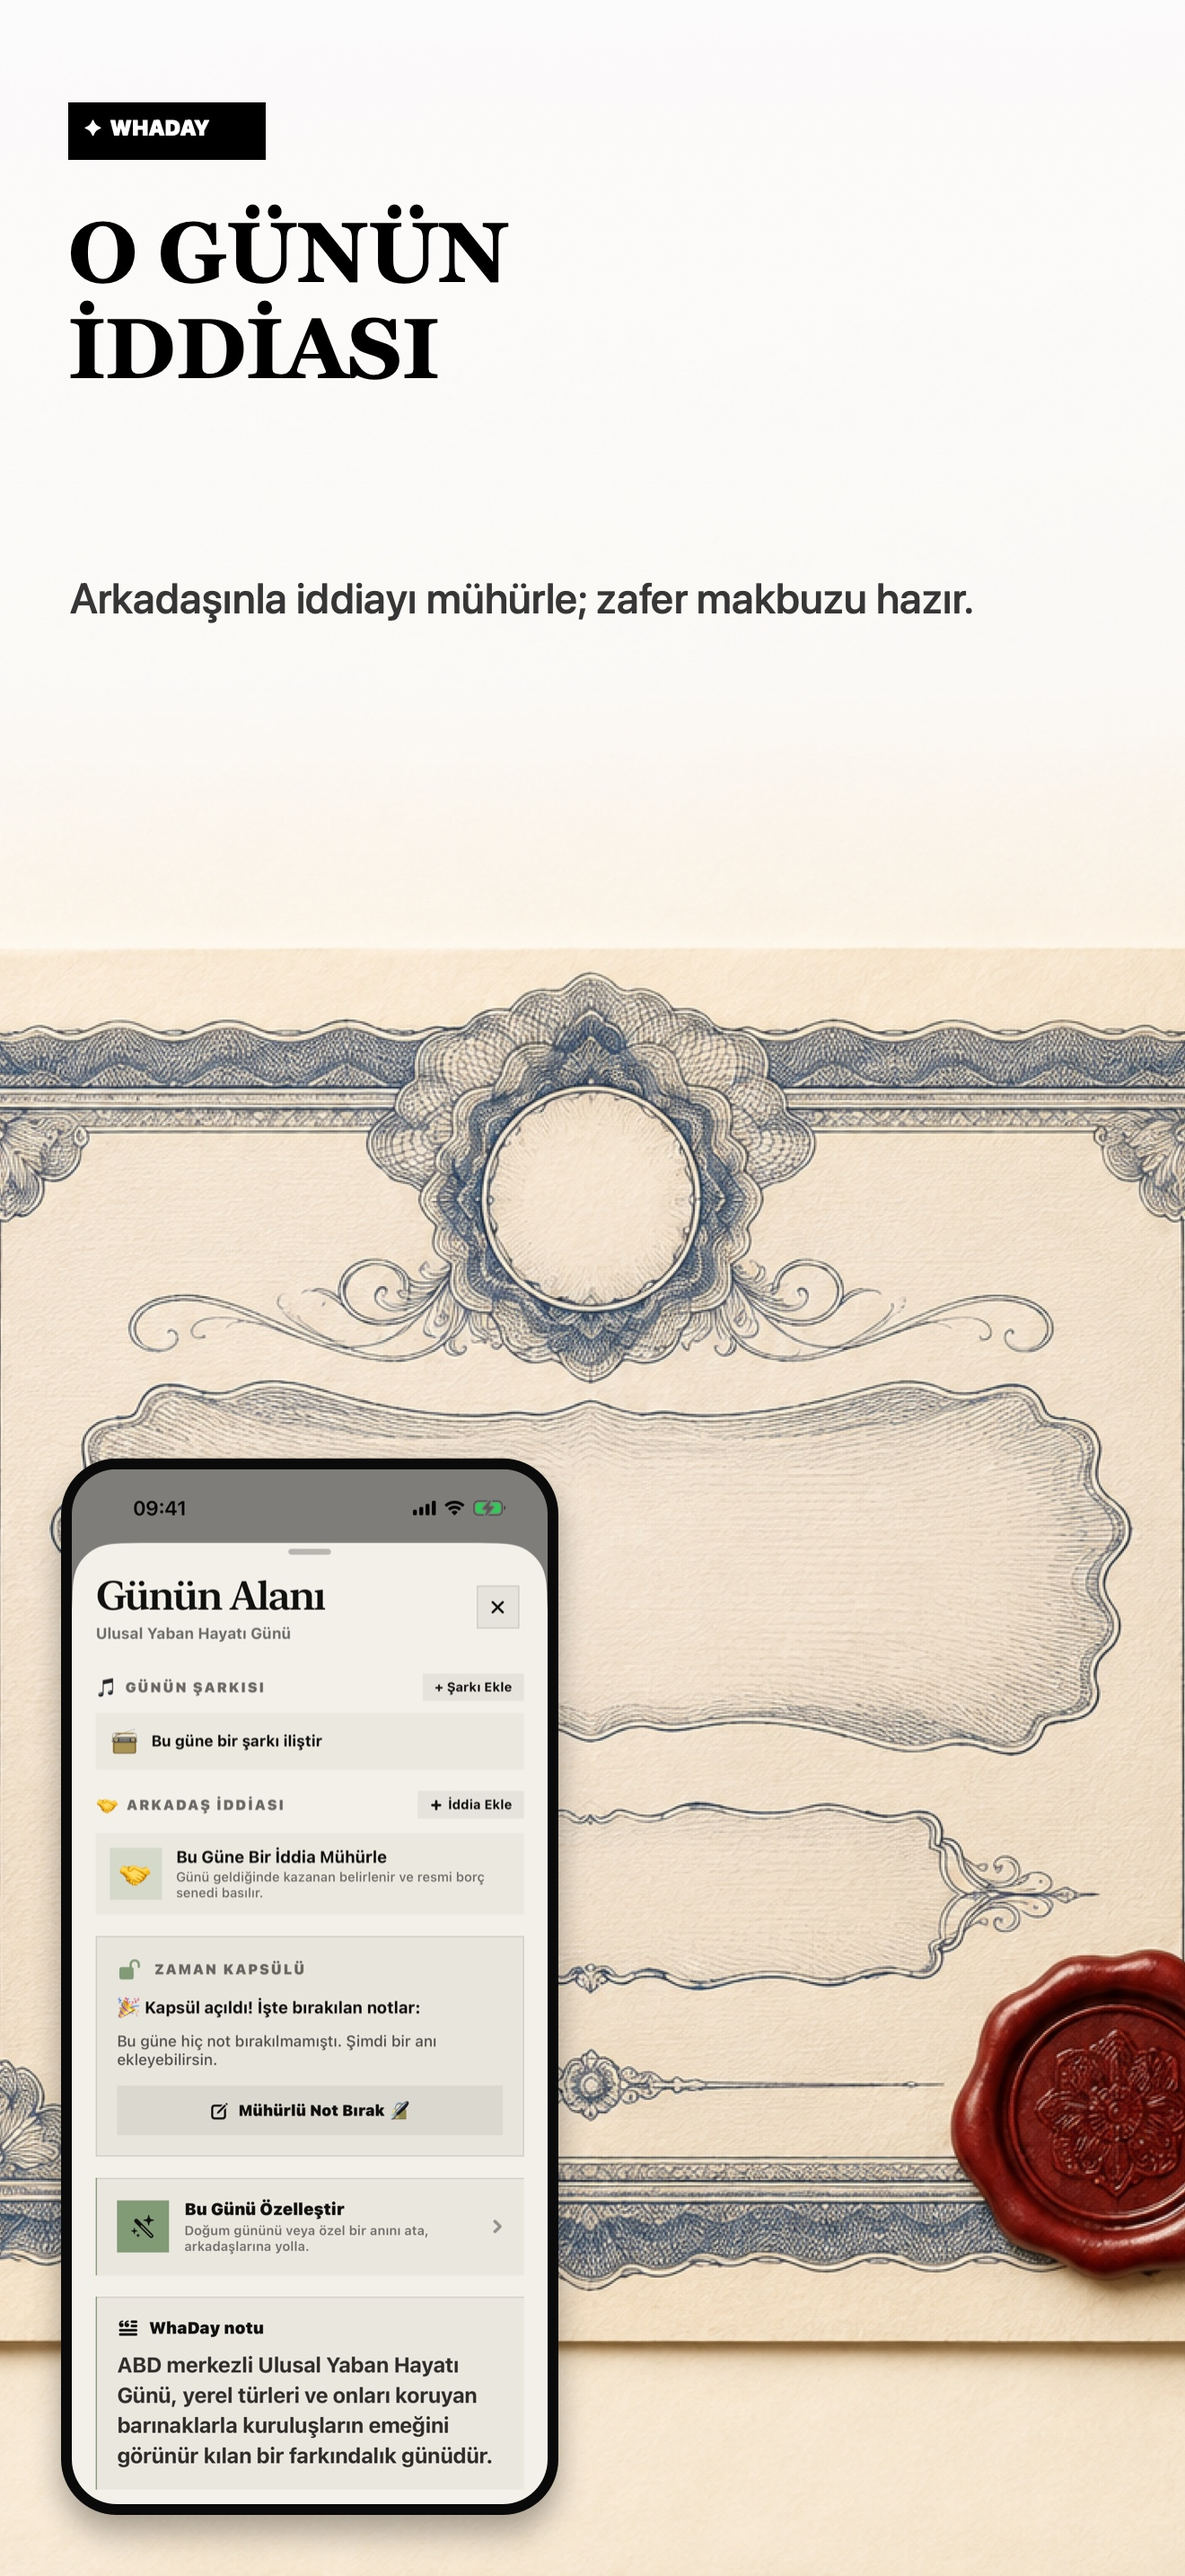
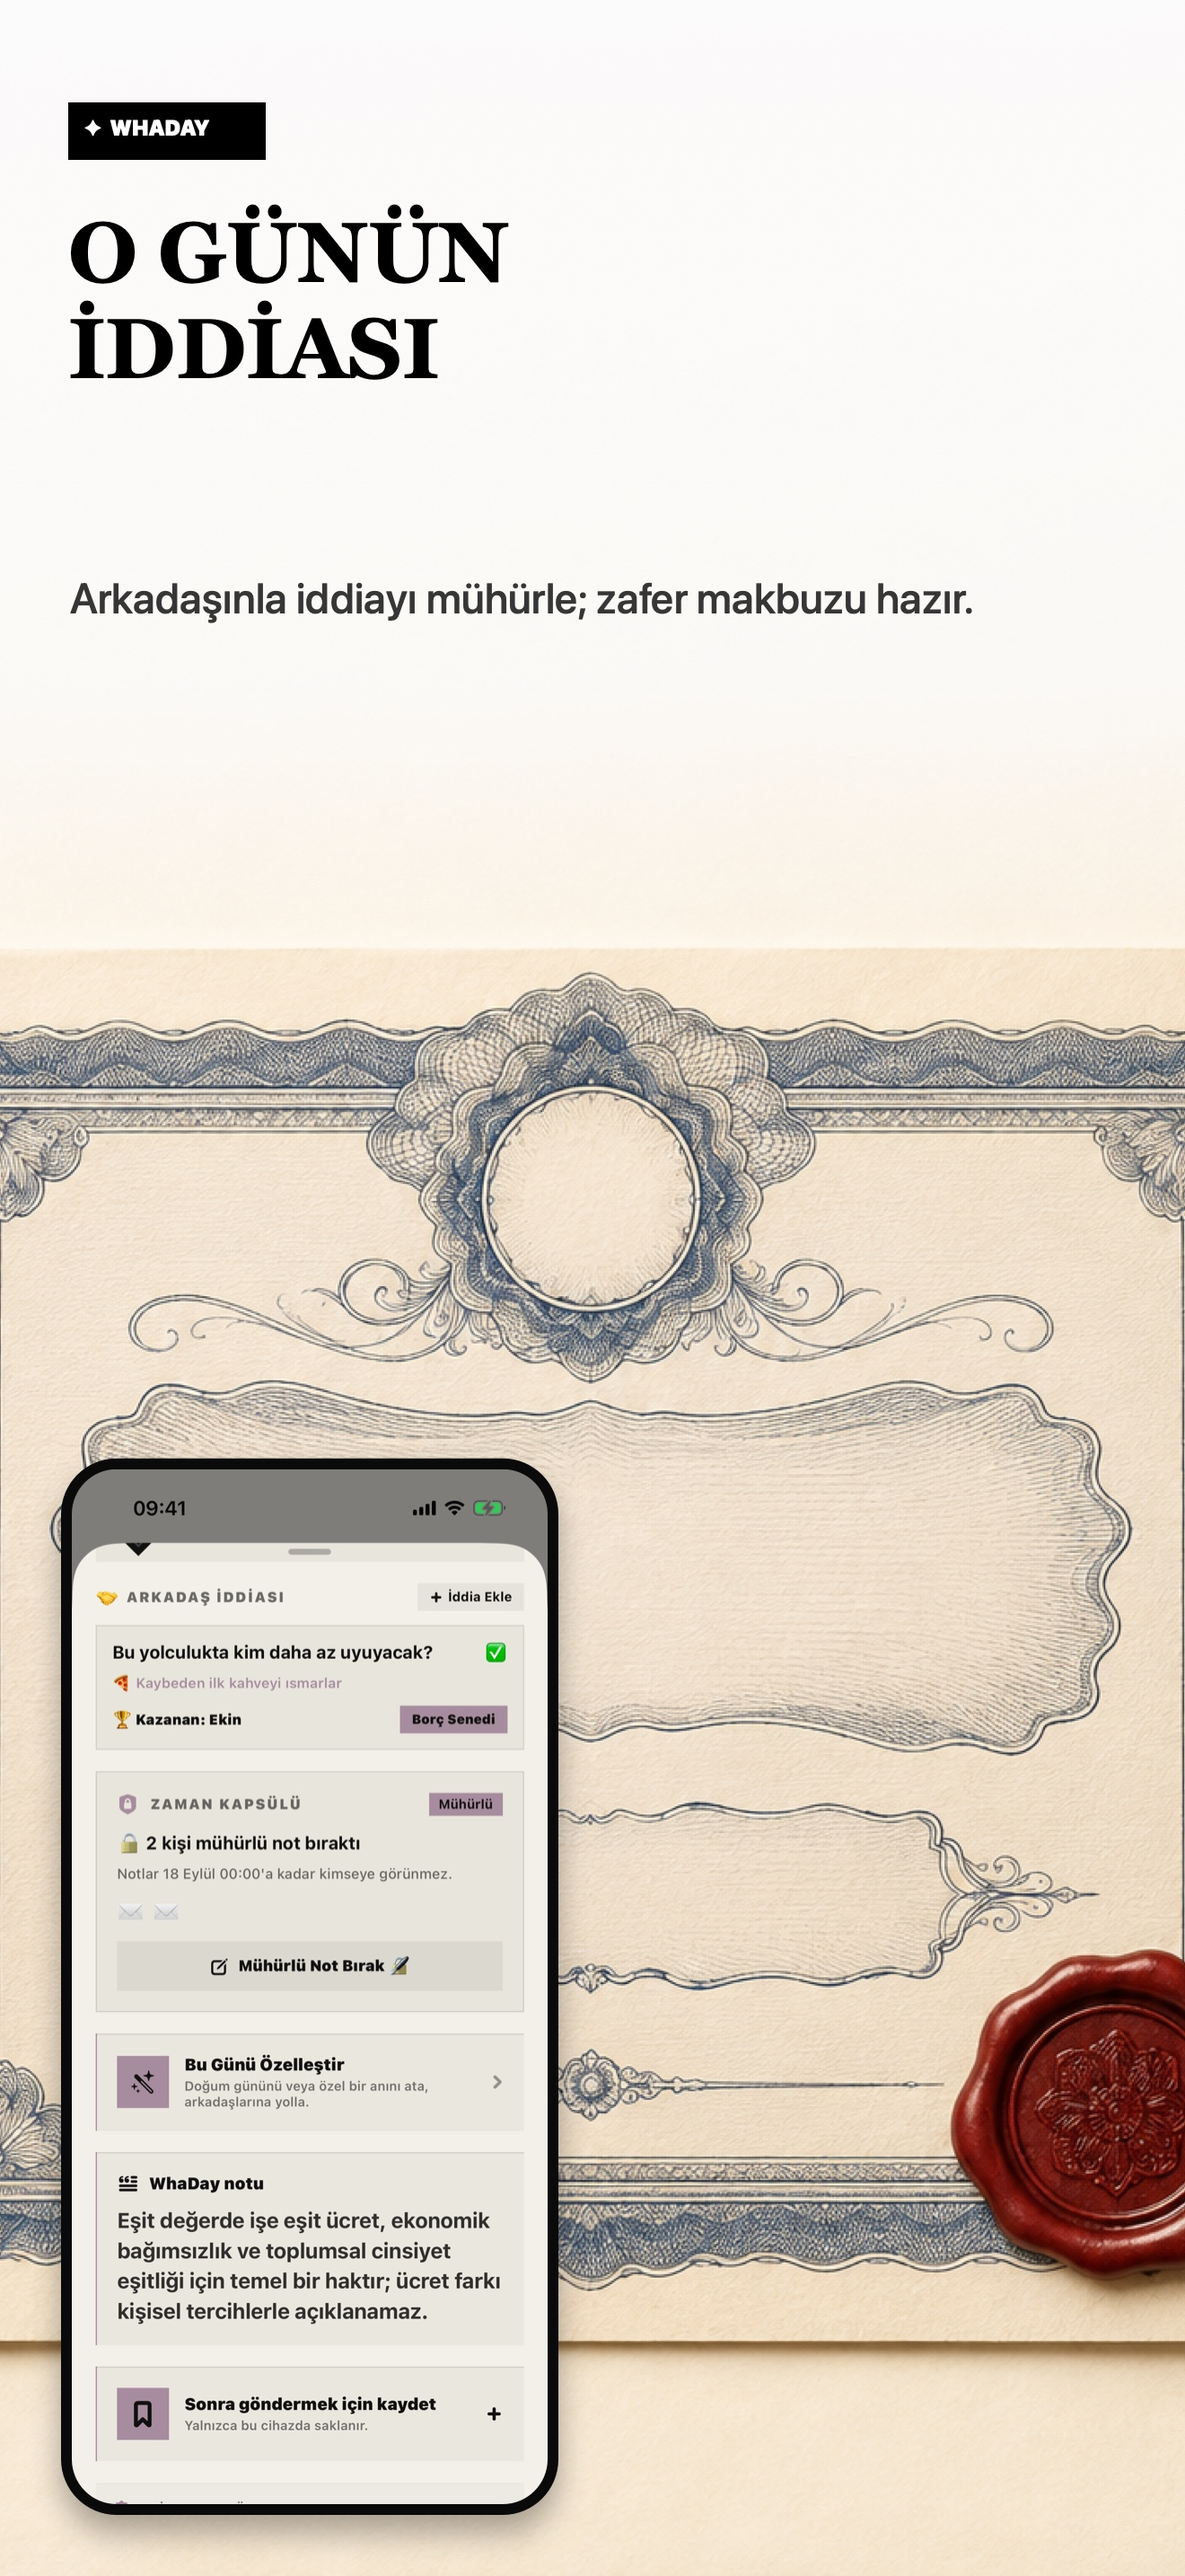
feat: finalize Build 11 release assets

Changed region(s): [[0.0932, 0.5896, 0.4038, 0.962], [0.3417, 0.6206, 0.4348, 0.7137], [0.3106, 0.6206, 0.3417, 0.6517]]

diff --git a/WhaDayNative/App/StoreScreenshotFixtures.swift b/WhaDayNative/App/StoreScreenshotFixtures.swift
@@ -1,0 +1,70 @@
+import Foundation
+
+/// Deterministic, process-local content used only by UI tests and App Store captures.
+/// The flag is never passed in production, so customer data and CloudKit stay untouched.
+enum StoreScreenshotFixtures {
+    static let enabled = ProcessInfo.processInfo.arguments.contains("-seedStoreDayClub")
+
+    static var dayID: String? {
+        guard enabled else { return nil }
+        let arguments = ProcessInfo.processInfo.arguments
+        guard let flag = arguments.firstIndex(of: "-storeScreenshotDay"),
+              arguments.indices.contains(flag + 1) else {
+            return "09-18"
+        }
+        return arguments[flag + 1]
+    }
+
+    static var soundtrack: DaySoundtrack? {
+        guard let dayID else { return nil }
+        return DaySoundtrack(
+            id: "store-screenshot-soundtrack",
+            dayID: dayID,
+            trackTitle: "Bir Derdim Var",
+            artistName: "mor ve ötesi",
+            musicURL: nil,
+            addedBy: "Ekin",
+            createdAt: Date(timeIntervalSince1970: 1_757_966_400)
+        )
+    }
+
+    static var bet: DayBet? {
+        guard let dayID else { return nil }
+        return DayBet(
+            id: "store-screenshot-bet",
+            dayID: dayID,
+            title: "Bu yolculukta kim daha az uyuyacak?",
+            stake: "Kaybeden ilk kahveyi ısmarlar",
+            partyA: "Ekin",
+            partyB: "Partner",
+            targetMonth: 9,
+            targetDay: 18,
+            winner: "Ekin",
+            createdAt: Date(timeIntervalSince1970: 1_757_966_400)
+        )
+    }
+
+    static var capsuleNotes: [CapsuleNote] {
+        guard let dayID else { return [] }
+        return [
+            CapsuleNote(
+                id: "store-screenshot-note-1",
+                capsuleID: dayID,
+                authorName: "Ekin",
+                content: "Bu yolculuğun en güzel anını seneye yeniden hatırlayalım.",
+                targetMonth: 9,
+                targetDay: 18,
+                createdAt: Date(timeIntervalSince1970: 1_757_966_400)
+            ),
+            CapsuleNote(
+                id: "store-screenshot-note-2",
+                capsuleID: dayID,
+                authorName: "Partner",
+                content: "Açıldığında ilk fotoğrafımıza birlikte bakalım.",
+                targetMonth: 9,
+                targetDay: 18,
+                createdAt: Date(timeIntervalSince1970: 1_757_970_000)
+            )
+        ]
+    }
+}

diff --git a/WhaDayNativeUITests/WhaDayAccessibilityUITests.swift b/WhaDayNativeUITests/WhaDayAccessibilityUITests.swift
@@ -78,6 +78,36 @@ final class WhaDayAccessibilityUITests: XCTestCase {
         attachScreenshot(named: "TR-Editorial-All-Days")
     }
 
+    func testTurkishStoreDayClubGallery() throws {
+        let app = XCUIApplication()
+        app.launchArguments = [
+            "-AppleLanguages", "(tr)",
+            "-AppleLocale", "tr_TR",
+            "-hasCompletedFirstUseCoach", "YES",
+            "-seedStoreDayClub",
+            "-storeScreenshotDay", "09-18"
+        ]
+
+        app.launch()
+        XCTAssertTrue(app.buttons["home.dayContext"].waitForExistence(timeout: 5))
+        app.buttons["home.dayContext"].tap()
+        XCTAssertTrue(app.buttons["dayContext.close"].waitForExistence(timeout: 5))
+
+        attachScreenshot(named: "TR-Store-Soundtrack")
+
+        dragContent(in: app, fromY: 0.72, toY: 0.48)
+        attachScreenshot(named: "TR-Store-Bet")
+
+        dragContent(in: app, fromY: 0.72, toY: 0.42)
+        attachScreenshot(named: "TR-Store-Capsule")
+    }
+
+    private func dragContent(in app: XCUIApplication, fromY: CGFloat, toY: CGFloat) {
+        let start = app.coordinate(withNormalizedOffset: CGVector(dx: 0.5, dy: fromY))
+        let end = app.coordinate(withNormalizedOffset: CGVector(dx: 0.5, dy: toY))
+        start.press(forDuration: 0.05, thenDragTo: end)
+    }
+
     private func exerciseCoreJourney(
         language: String,
         locale: String,

diff --git a/scripts/generate_hybrid_store_screenshots.swift b/scripts/generate_hybrid_store_screenshots.swift
@@ -42,7 +42,7 @@ let shots = [
     ),
     HybridShot(
         concept: "03-bet-certificate.png",
-        appScreen: "day-club.png",
+        appScreen: "03-bet-tr.png",
         output: "03-o-gunun-iddiasi.jpg",
         headline: "O GÜNÜN\nİDDİASI",
         subtitle: "Arkadaşınla iddiayı mühürle; zafer makbuzu hazır.",
@@ -50,7 +50,7 @@ let shots = [
     ),
     HybridShot(
         concept: "04-time-capsule.png",
-        appScreen: "day-club.png",
+        appScreen: "04-capsule-tr.png",
         output: "04-muhurlu-kapsul.jpg",
         headline: "MÜHÜRLÜ ZAMAN\nKAPSÜLÜ",
         subtitle: "Bugünün notu, tam bir yıl sonra geri gelsin.",
@@ -58,7 +58,7 @@ let shots = [
     ),
     HybridShot(
         concept: "05-soundtrack.png",
-        appScreen: "day-club.png",
+        appScreen: "05-soundtrack-tr.png",
         output: "05-gunun-sarkisi.jpg",
         headline: "GÜNÜN\nŞARKISI",
         subtitle: "Güne bir soundtrack iliştir; birlikte hatırlayın.",

diff --git a/WhaDayNative/Screens/BetSectionView.swift b/WhaDayNative/Screens/BetSectionView.swift
@@ -85,6 +85,7 @@ struct BetSectionView: View {
                 }
             }
         }
+        .accessibilityIdentifier("dayContext.betSection")
         .sheet(isPresented: $showingNewBetSheet) {
             NewBetSheet(
                 dayID: dayID,
@@ -93,10 +94,12 @@ struct BetSectionView: View {
                 colors: colors
             ) { _ in }
             .presentationDetents([.large])
+            .presentationDragIndicator(.visible)
         }
         .sheet(item: $activeReceiptBet) { bet in
             BetReceiptSheet(bet: bet, colors: colors)
                 .presentationDetents([.large])
+                .presentationDragIndicator(.visible)
         }
     }
 

diff --git a/WhaDayNative/Models/DaySoundtrack.swift b/WhaDayNative/Models/DaySoundtrack.swift
@@ -57,7 +57,11 @@ final class DaySoundtrackStore: ObservableObject {
 
         let decoder = JSONDecoder()
         let data = groupDefaults?.data(forKey: storageKey) ?? standardDefaults.data(forKey: storageKey)
-        self.soundtracksByDay = data.flatMap { try? decoder.decode([String: DaySoundtrack].self, from: $0) } ?? [:]
+        var loaded = data.flatMap { try? decoder.decode([String: DaySoundtrack].self, from: $0) } ?? [:]
+        if let soundtrack = StoreScreenshotFixtures.soundtrack {
+            loaded[soundtrack.dayID] = soundtrack
+        }
+        self.soundtracksByDay = loaded
     }
 
     func soundtrack(for dayID: String) -> DaySoundtrack? {

diff --git a/WhaDayNative/Screens/SharedSpaceDetailView.swift b/WhaDayNative/Screens/SharedSpaceDetailView.swift
@@ -44,6 +44,7 @@ struct SharedSpaceDetailView: View {
                 // Refreshed automatically
             }
             .presentationDetents([.large])
+            .presentationDragIndicator(.visible)
         }
         .sheet(isPresented: $showingShareInvite) {
             if let url = inviteURL {
@@ -51,6 +52,7 @@ struct SharedSpaceDetailView: View {
                     "\(space.emoji) '\(space.title)' ortak takvimimize katıl:\n\(url.absoluteString)"
                 ])
                 .presentationDetents([.medium, .large])
+                .presentationDragIndicator(.visible)
             }
         }
     }

diff --git a/WhaDayNative/Data/DayBetStore.swift b/WhaDayNative/Data/DayBetStore.swift
@@ -17,7 +17,11 @@ final class DayBetStore: ObservableObject {
     ) {
         self.groupDefaults = UserDefaults(suiteName: appGroupID)
         self.standardDefaults = standardDefaults
-        self.betsByDay = Self.load(groupDefaults: groupDefaults, standardDefaults: standardDefaults, storageKey: storageKey)
+        var loaded = Self.load(groupDefaults: groupDefaults, standardDefaults: standardDefaults, storageKey: storageKey)
+        if let bet = StoreScreenshotFixtures.bet {
+            loaded[bet.dayID] = [bet]
+        }
+        self.betsByDay = loaded
     }
 
     func bets(for dayID: String) -> [DayBet] {

diff --git a/WhaDayNative/Screens/TimeCapsuleSection.swift b/WhaDayNative/Screens/TimeCapsuleSection.swift
@@ -100,6 +100,7 @@ struct TimeCapsuleSection: View {
             Rectangle()
                 .strokeBorder(Color(hex: colors.ink).opacity(0.12), lineWidth: 1)
         )
+        .accessibilityIdentifier("dayContext.capsuleSection")
         .task {
             await cloudManager.fetchNotes(for: capsuleID)
         }
@@ -112,6 +113,7 @@ struct TimeCapsuleSection: View {
                 colors: colors
             )
             .presentationDetents([.large])
+            .presentationDragIndicator(.visible)
         }
     }
 

diff --git a/WhaDayNative/Screens/SoundtrackSectionView.swift b/WhaDayNative/Screens/SoundtrackSectionView.swift
@@ -50,6 +50,7 @@ struct SoundtrackSectionView: View {
                 emptySoundtrackButton
             }
         }
+        .accessibilityIdentifier("dayContext.soundtrackSection")
         .sheet(isPresented: $showingEditSheet) {
             EditSoundtrackSheet(
                 dayID: dayID,
@@ -57,6 +58,7 @@ struct SoundtrackSectionView: View {
                 colors: colors
             )
             .presentationDetents([.medium])
+            .presentationDragIndicator(.visible)
         }
     }
 

diff --git a/WhaDayNative/Services/CapsuleCloudManager.swift b/WhaDayNative/Services/CapsuleCloudManager.swift
@@ -26,7 +26,11 @@ final class CapsuleCloudManager: ObservableObject {
         self.database = container.publicCloudDatabase
         self.cacheDefaults = cacheDefaults
         self.isCloudKitEnabled = enableCloudSync
-        self.notesByCapsule = loadCache()
+        var loaded = loadCache()
+        if let dayID = StoreScreenshotFixtures.dayID {
+            loaded[dayID] = StoreScreenshotFixtures.capsuleNotes
+        }
+        self.notesByCapsule = loaded
     }
 
     // MARK: - Query

diff --git a/WhaDayNative/App/RootView.swift b/WhaDayNative/App/RootView.swift
@@ -24,6 +24,12 @@ struct RootView: View {
     @State private var incomingCustomDay: CustomDayRecord?
     @State private var incomingSpaceInvite: SharedSpace?
 
+    init() {
+        if let dayID = StoreScreenshotFixtures.dayID {
+            _selectedDay = State(initialValue: DayEventStore.event(id: dayID))
+        }
+    }
+
     var body: some View {
         Group {
             switch screen {

diff --git a/WhaDayNative/Screens/CustomDayEditorSheet.swift b/WhaDayNative/Screens/CustomDayEditorSheet.swift
@@ -80,6 +80,7 @@ struct CustomDayEditorSheet: View {
                     "\(selectedEmoji) \(title) (\(formattedDate))\n\(descriptionText)\n\nBu günü WhaDay takvimine ekle: \(url.absoluteString)"
                 ])
                 .presentationDetents([.medium, .large])
+                .presentationDragIndicator(.visible)
             }
         }
     }
